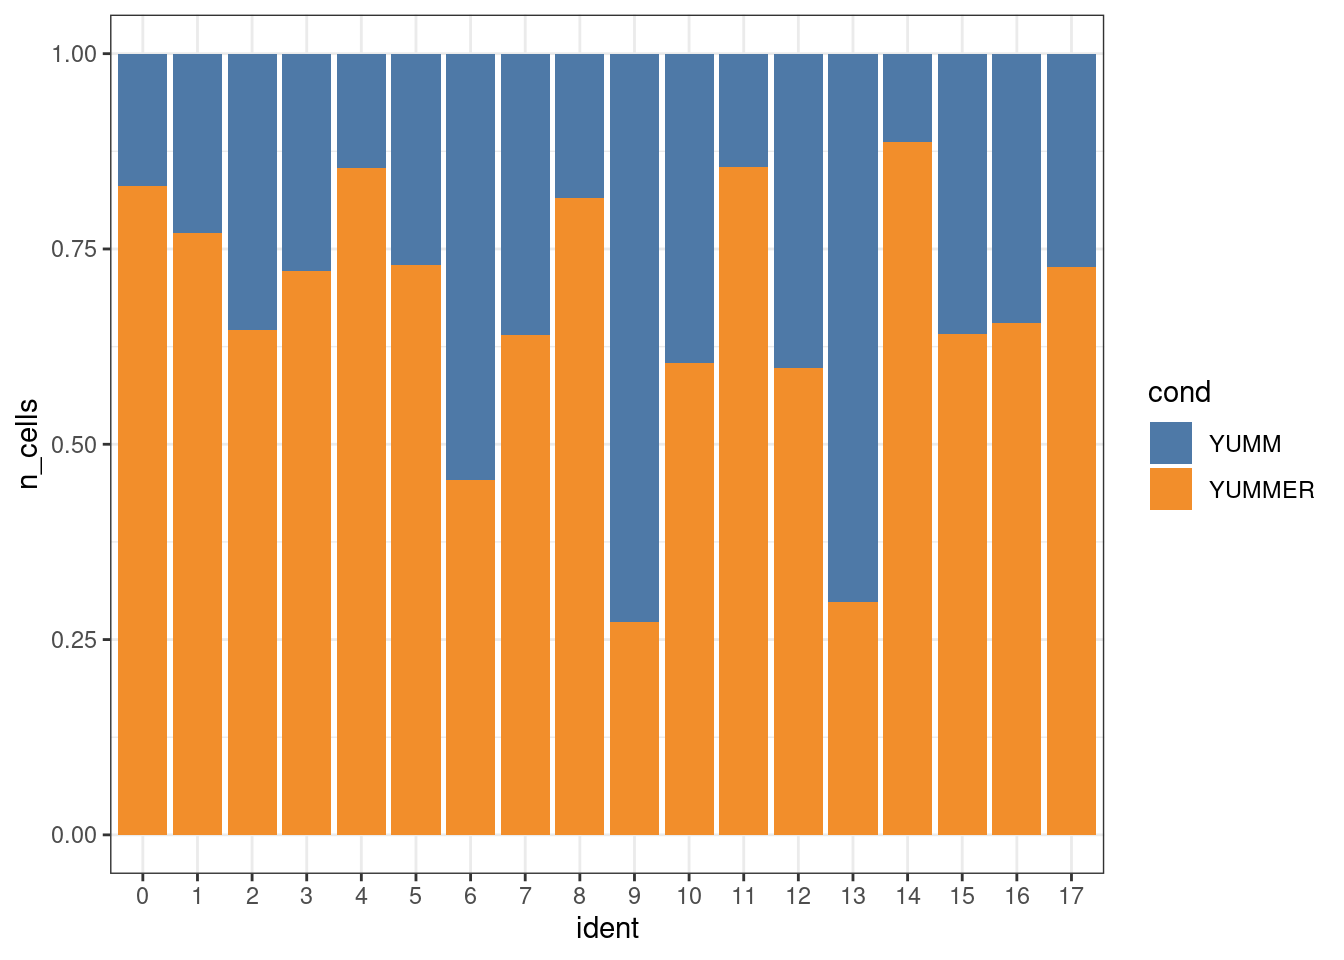
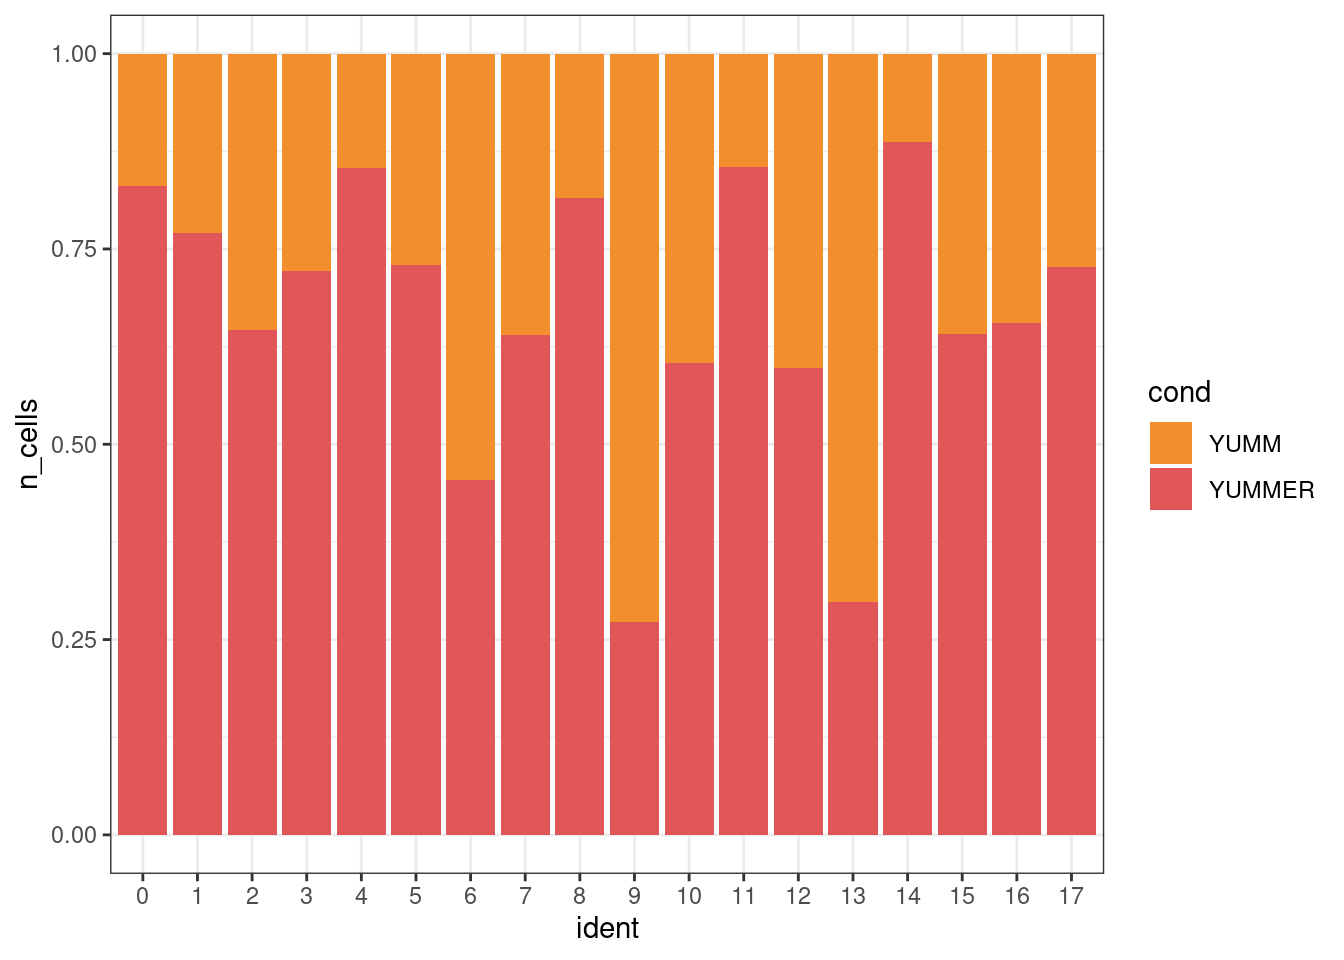
adapt colour yumm/yummer

diff --git a/docs/code/SNF_draft/EDA/vis_LN_CD45.html b/docs/code/SNF_draft/EDA/vis_LN_CD45.html
@@ -353,14 +353,14 @@ pre > code.sourceCode > span > a:first-child::before { text-decoration: underlin
 </div>
 <div class="sourceCode cell-code" id="cb13"><pre class="sourceCode r code-with-copy"><code class="sourceCode r"><span id="cb13-1"><a href="#cb13-1" aria-hidden="true" tabindex="-1"></a><span class="fu">ggplot</span>(cond_dat, <span class="fu">aes</span>(<span class="at">fill=</span>cond, <span class="at">y=</span>n_cells, <span class="at">x=</span>ident)) <span class="sc">+</span> </span>
 <span id="cb13-2"><a href="#cb13-2" aria-hidden="true" tabindex="-1"></a>  <span class="fu">geom_bar</span>(<span class="at">position=</span><span class="st">"stack"</span>, <span class="at">stat=</span><span class="st">"identity"</span>) <span class="sc">+</span> </span>
-<span id="cb13-3"><a href="#cb13-3" aria-hidden="true" tabindex="-1"></a>  <span class="fu">scale_fill_tableau</span>() <span class="sc">+</span> </span>
+<span id="cb13-3"><a href="#cb13-3" aria-hidden="true" tabindex="-1"></a>  <span class="fu">scale_fill_manual</span>(<span class="at">values =</span> <span class="fu">list</span>(<span class="st">"YUMM"</span> <span class="ot">=</span> <span class="st">"#F28E2B"</span>, <span class="st">"YUMMER"</span> <span class="ot">=</span> <span class="st">"#E15759"</span>)) <span class="sc">+</span> </span>
 <span id="cb13-4"><a href="#cb13-4" aria-hidden="true" tabindex="-1"></a>  <span class="fu">theme_bw</span>()</span></code><button title="Copy to Clipboard" class="code-copy-button"><i class="bi"></i></button></pre></div>
 <div class="cell-output-display">
 <p><img src="vis_LN_CD45_files/figure-html/unnamed-chunk-4-1.png" class="img-fluid" width="672"></p>
 </div>
 <div class="sourceCode cell-code" id="cb14"><pre class="sourceCode r code-with-copy"><code class="sourceCode r"><span id="cb14-1"><a href="#cb14-1" aria-hidden="true" tabindex="-1"></a><span class="fu">ggplot</span>(cond_dat, <span class="fu">aes</span>(<span class="at">fill=</span>cond, <span class="at">y=</span>n_cells, <span class="at">x=</span>ident)) <span class="sc">+</span> </span>
 <span id="cb14-2"><a href="#cb14-2" aria-hidden="true" tabindex="-1"></a>  <span class="fu">geom_bar</span>(<span class="at">position=</span><span class="st">"fill"</span>, <span class="at">stat=</span><span class="st">"identity"</span>) <span class="sc">+</span> </span>
-<span id="cb14-3"><a href="#cb14-3" aria-hidden="true" tabindex="-1"></a>  <span class="fu">scale_fill_tableau</span>() <span class="sc">+</span> </span>
+<span id="cb14-3"><a href="#cb14-3" aria-hidden="true" tabindex="-1"></a>  <span class="fu">scale_fill_manual</span>(<span class="at">values =</span> <span class="fu">list</span>(<span class="st">"YUMM"</span> <span class="ot">=</span> <span class="st">"#F28E2B"</span>, <span class="st">"YUMMER"</span> <span class="ot">=</span> <span class="st">"#E15759"</span>)) <span class="sc">+</span> </span>
 <span id="cb14-4"><a href="#cb14-4" aria-hidden="true" tabindex="-1"></a>  <span class="fu">theme_bw</span>()</span></code><button title="Copy to Clipboard" class="code-copy-button"><i class="bi"></i></button></pre></div>
 <div class="cell-output-display">
 <p><img src="vis_LN_CD45_files/figure-html/unnamed-chunk-4-2.png" class="img-fluid" width="672"></p>
@@ -395,10 +395,10 @@ pre > code.sourceCode > span > a:first-child::before { text-decoration: underlin
 <h2 class="anchored" data-anchor-id="cluster-marker-gene-expression">Cluster marker gene expression</h2>
 <table class="table">
 <colgroup>
-<col style="width: 19%">
-<col style="width: 30%">
-<col style="width: 17%">
-<col style="width: 32%">
+<col style="width: 21%">
+<col style="width: 27%">
+<col style="width: 21%">
+<col style="width: 28%">
 </colgroup>
 <tbody>
 <tr class="odd">
